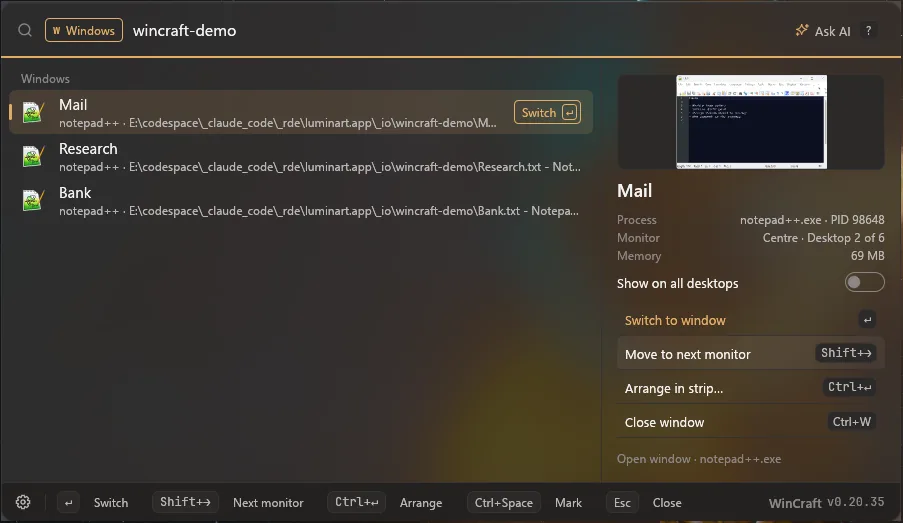
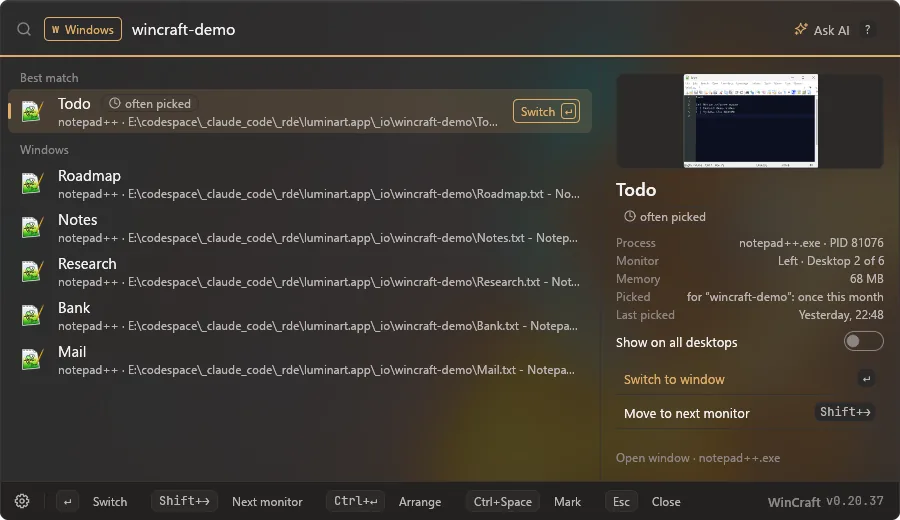
WinCraft page: screenshots retaken from 0.20.37 with round window corners
WinCraft 0.20.37 draws its windows with Windows 11 round corners, and the
old pictures still showed the square-cornered build. Every picture is new:
window shots come from PrintWindow so nothing behind them leaks in, and the
corners are cut out as transparency. prep-shots.py now keeps that alpha
instead of flattening every image to RGB. The shortcut detector shows its
new look, and the version line names 0.20.37.

diff --git a/sites/wincraft/public/index.html b/sites/wincraft/public/index.html
@@ -51,7 +51,7 @@
           <a class="btn" href="https://github.com/OliverD25/wincraft" target="_blank" rel="noopener">View on GitHub →</a>
         </div>
         <p class="note">No installer required. Run it straight from your downloads, or install into your Start Menu and startup in one command: <code>wincraft.exe --install</code></p>
-        <p class="meta">Version 0.20.35 · about 13 MB · Not code-signed yet, so SmartScreen asks once · <a href="/releases/">What's new →</a> · <a href="/releases/">Release notes →</a></p>
+        <p class="meta">Version 0.20.37 · about 13 MB · Not code-signed yet, so SmartScreen asks once · <a href="/releases/">What's new →</a> · <a href="/releases/">Release notes →</a></p>
       </div>
       <img class="app-icon" src="/icons/wincraft-256.png" alt="WinCraft icon" width="112" height="112">
     </section>
@@ -72,7 +72,7 @@
         <li><strong>Instant Prefix Filters:</strong> Type a symbol (or <code>w </code> for windows, <code>a </code> for apps) to scope your search immediately:</li>
       </ul>
       <figure class="fig">
-        <div class="window"><img src="/images/inspector.webp" alt="The command palette with three demo windows named Mail, Research and Bank; the inspector on the right shows the preview, process, monitor and desktop, memory and actions for Mail" width="903" height="523" loading="lazy"></div>
+        <div class="window"><img src="/images/inspector.webp" alt="The command palette searching six demo windows; Todo is the best match, marked often picked, and the inspector on the right shows its preview, process, monitor and desktop, memory, how often it was picked and its actions" width="900" height="520" loading="lazy"></div>
         <figcaption>The live inspector: preview, process, monitor and desktop, memory, and every action</figcaption>
       </figure>
       <div class="table-wrap">
@@ -126,7 +126,7 @@
         </li>
       </ul>
       <figure class="fig fig-after">
-        <div class="window"><img src="/images/windowdeck.webp" alt="WindowDeck by monitor: six demo windows (Todo and Notes on the left monitor; Mail, Research, Bank and Roadmap on the centre one), numbered, with the keys listed along the bottom" width="1600" height="391" loading="lazy"></div>
+        <div class="window"><img src="/images/windowdeck.webp" alt="WindowDeck by monitor: six demo windows (Todo and Notes on the left monitor; Research, Bank, Roadmap and Mail on the centre one), numbered, with the keys listed along the bottom" width="1600" height="390" loading="lazy"></div>
         <figcaption>WindowDeck: every window of an app, grouped by monitor, numbered and ready to move</figcaption>
       </figure>
     </section>
@@ -135,25 +135,25 @@
       <ul class="views">
         <li>
           <figure>
-            <div class="window"><img src="/images/plugins.webp" alt="The WinCraft settings window on its Plugins page, listing the seven plugins" width="1200" height="783" loading="lazy"></div>
+            <div class="window"><img src="/images/plugins.webp" alt="The WinCraft settings window on its Plugins page, listing the seven plugins" width="1200" height="785" loading="lazy"></div>
             <figcaption>Settings: seven plugins, each with its own page</figcaption>
           </figure>
         </li>
         <li>
           <figure>
-            <div class="window"><img src="/images/quickjump.webp" alt="The QuickJump settings page with the windows pinned to the digits" width="1200" height="783" loading="lazy"></div>
+            <div class="window"><img src="/images/quickjump.webp" alt="The QuickJump settings page with the windows pinned to the digits" width="1200" height="785" loading="lazy"></div>
             <figcaption>QuickJump: pin windows to the digits and jump back</figcaption>
           </figure>
         </li>
         <li>
           <figure>
-            <div class="window"><img src="/images/screen-dimmer.webp" alt="The ScreenDimmer settings page with its options for each monitor" width="1200" height="783" loading="lazy"></div>
+            <div class="window"><img src="/images/screen-dimmer.webp" alt="The ScreenDimmer settings page with its options for each monitor" width="1200" height="785" loading="lazy"></div>
             <figcaption>ScreenDimmer: cover a monitor or turn it off</figcaption>
           </figure>
         </li>
         <li>
           <figure>
-            <div class="window"><img src="/images/shortcut-detector.webp" alt="The shortcut detector window showing which key combinations are taken" width="1116" height="825" loading="lazy"></div>
+            <div class="window"><img src="/images/shortcut-detector.webp" alt="The shortcut detector: a search box, filters for Ctrl, Alt, Shift and Win, a box to test a shortcut, and a list of key combinations with who uses each one" width="1144" height="887" loading="lazy"></div>
             <figcaption>Shortcut detector: which key combinations are taken</figcaption>
           </figure>
         </li>
@@ -167,7 +167,7 @@
         <li><strong>5 Native Themes with Live Hover Preview:</strong> Choose between <strong>Classic</strong>, <strong>Fluent</strong> (native Windows 11 glass that smartly turns solid on battery saver), <strong>Terminal</strong>, <strong>Paper</strong>, and <strong>High Contrast</strong>—each in Light, Dark, or System mode. Hover over any theme tile in Settings to preview it live across every open WinCraft window.</li>
       </ul>
       <figure class="fig">
-        <div class="window"><img src="/images/themes.webp" alt="The WinCraft settings window with the five theme tiles: Classic, Fluent, Terminal, Paper and High Contrast" width="1200" height="783" loading="lazy"></div>
+        <div class="window"><img src="/images/themes.webp" alt="The WinCraft settings window with the five theme tiles: Classic, Fluent, Terminal, Paper and High Contrast" width="1200" height="785" loading="lazy"></div>
         <figcaption>Five themes, each in light, dark or system mode</figcaption>
       </figure>
     </section>

diff --git a/scripts/prep-shots.py b/scripts/prep-shots.py
@@ -49,7 +49,10 @@ if not (input_dir / hero_file).exists():
     sys.exit(f"{hero_file} is not in {input_dir}")
 
 for src in sources:
-    image = Image.open(src).convert("RGB")
+    image = Image.open(src).convert("RGBA")
+    # Window shots with round transparent corners keep their alpha; everything else is plain RGB.
+    if image.getchannel("A").getextrema()[0] == 255:
+        image = image.convert("RGB")
     is_hero = src.name == hero_file
     # The output name drops a leading "01-" style number, so 01-dual-pane.png becomes dual-pane.webp.
     stem = "hero" if is_hero else src.stem.split("-", 1)[-1] if src.stem[:2].isdigit() else src.stem
